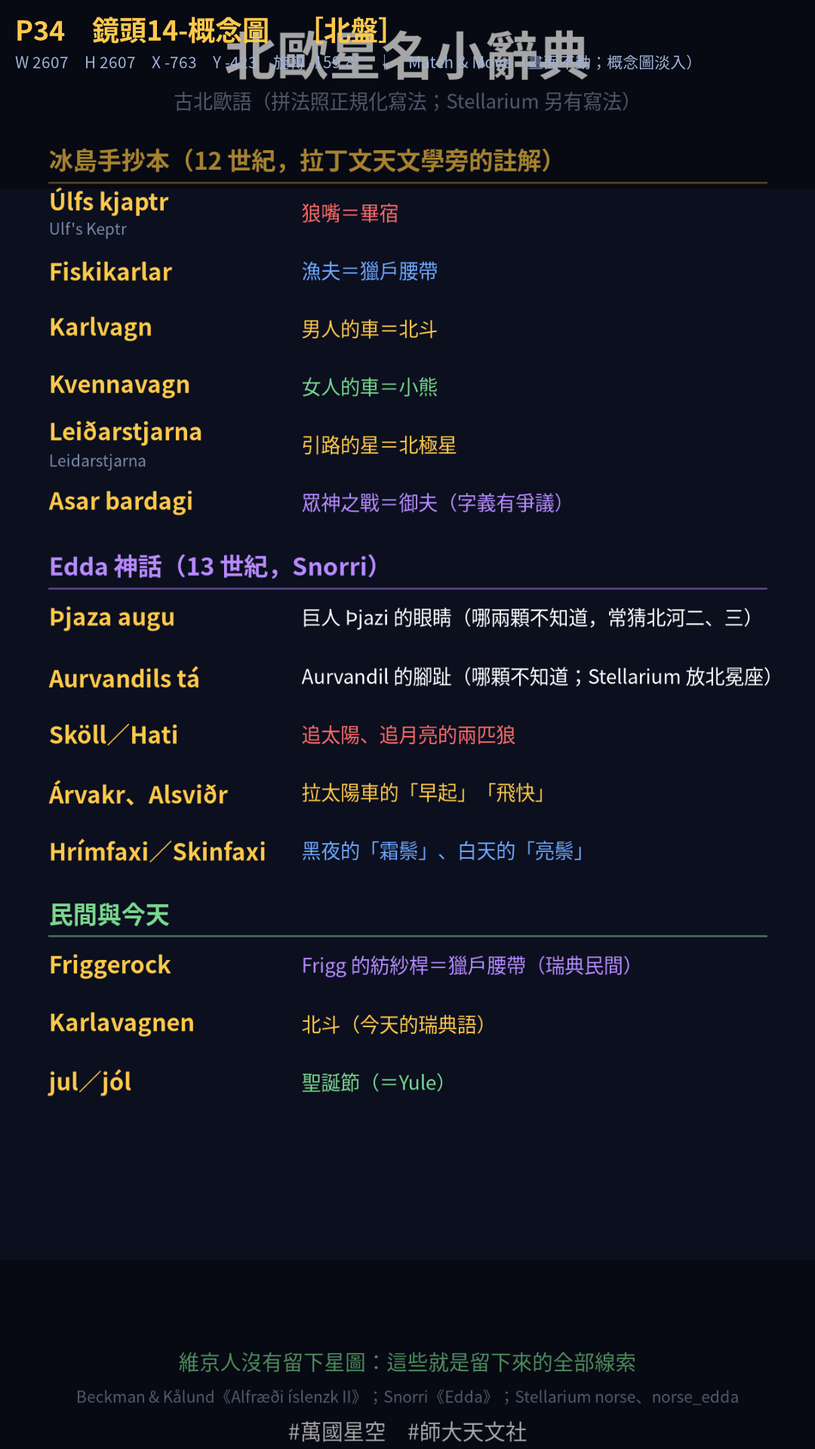
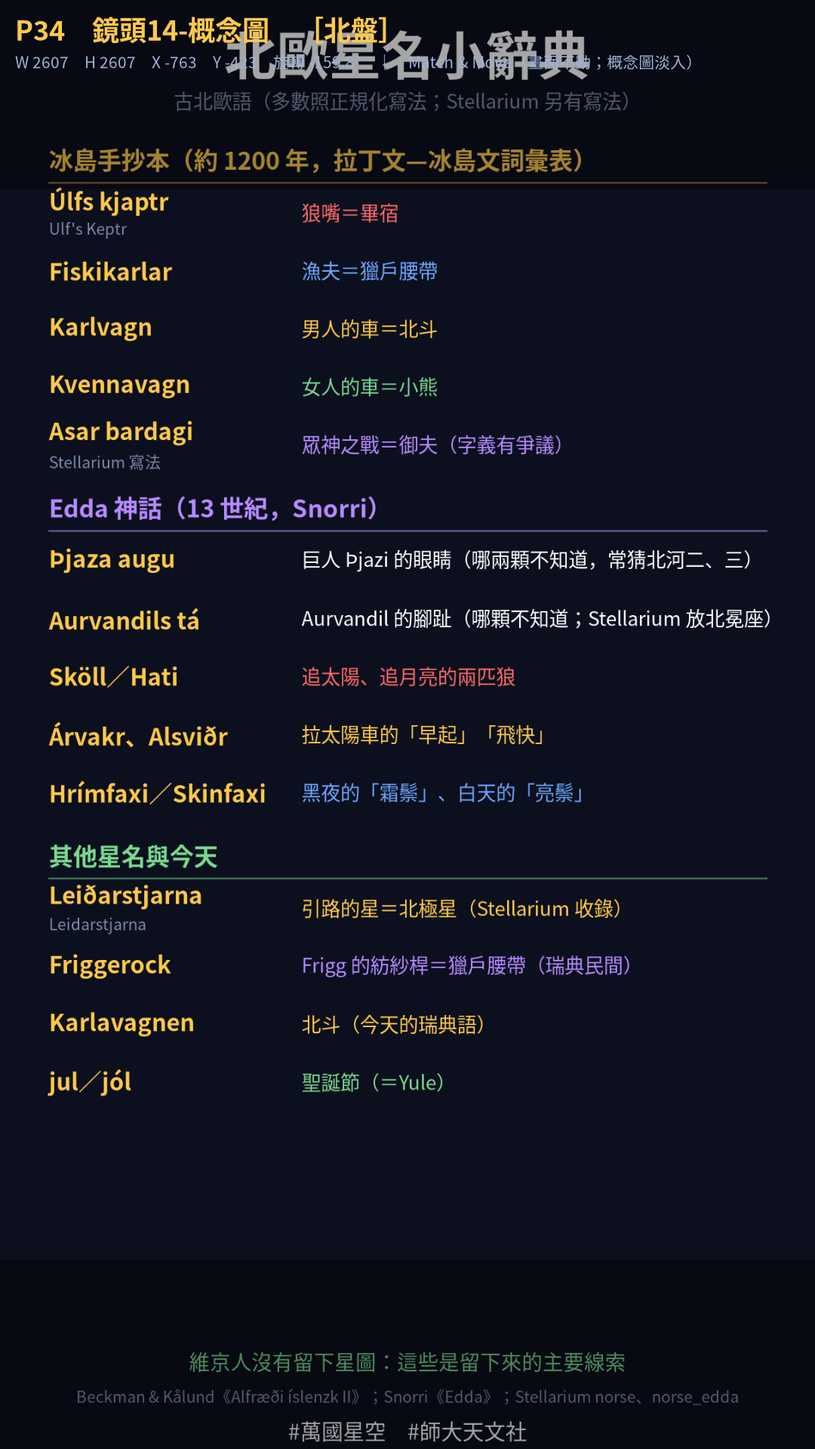
A-15 北歐：套用事實查核修正＋節目表
- 旁白 04：手抄本改為「十二世紀末…一份拉丁文詞彙表」（狼嘴在 GKS 1812 最古老部分的
  詞彙表；Vlfs kiopt 是十四世紀的星座篇）；07「嘴邊」→「附近」；10「冰河」→「結冰的河」；
  15「東北方」→「東北東」
- 圖卡：小辭典改標題與分組（Leiðarstjarna 另列）、「主要線索」；阿努塔「夾子」；
  這週末月亮離北河三「約 5°」；天上的追逐「狼會吞下太陽、抓走月亮」
- 首留言：馬肝在 Mære 的 Yule 祭宴、刪「馬是最重要的祭品」；「主要只有兩類」；Jólnir 另一讀法
- 節目表 A-15：鉤子、素材、時長 246s、狀態「逐字稿 v1（已查核）＋素材」
- Norse in Europe.csv 中譯：腳趾、男人的車／女人的車、引路的星、白晝之星、南方之星

Claude-Session: https://claude.ai/code/session_01StZzE6tWpXcy8oYxpE6GNa

diff --git a/02_製作流程SOP/make_a15_diagrams.py b/02_製作流程SOP/make_a15_diagrams.py
@@ -235,7 +235,7 @@ def c03_moon(ax):
     ctext(ax, -0.60, -0.22, "狼 Hati", 14, WHITE)
     CB.arrow(ax, (-0.10, -0.03), (-0.42, -0.03), c=RED, lw=2.4, alpha=.85)
     ctext(ax, -0.26, 0.035, "追", 14, RED)
-    ctext(ax, 0.62, -0.03, "到了諸神的黃昏，\n狼會把太陽吞下去", 12, RED, w="normal")
+    ctext(ax, 0.62, -0.03, "到了諸神的黃昏，\n狼會吞下太陽、抓走月亮", 12, RED, w="normal")
 
 
 def c03_horses(ax):
@@ -355,14 +355,14 @@ def c05_card(ax):
     ctext(ax, 0.5, 0.930, "金牛座的畢宿（Hyades），在世界各地被看成什麼？", 12, GREY, w="normal")
     hyades_drawing(ax, 0.5, 0.83, 0.060)
     rows = [("一張嘴、一副下巴", None, RED),
-            ("北歐", "Úlfs kjaptr　狼嘴（冰島手抄本，12 世紀）", RED),
+            ("北歐", "Úlfs kjaptr　狼嘴（冰島手抄本，約 1200 年）", RED),
             ("古巴比倫", "Is lê　公牛的下顎（MUL.APIN）", RED),
             ("亞馬遜 Tikuna", "Coyatchicüra　鱷魚的嘴", RED),
             ("巴西 圖皮", "Tapi'i rainhyka　貘的下巴", RED),
             ("蘇利南、蓋亞那 洛科諾", "Kama tâla　貘的下巴", RED),
             ("古埃及（重建）", "「下巴」", RED),
             ("一把夾子", None, AMBER),
-            ("阿努塔", "Te Angaanga　火鉗", AMBER),
+            ("阿努塔", "Te Angaanga　夾子", AMBER),
             ("萬那杜 Netwar", "Kou　夾熱石頭的鉗子", AMBER),
             ("其他", None, BLUE),
             ("中國", "畢　捕鳥兔的長柄網", BLUE),
@@ -388,20 +388,20 @@ def c05_card(ax):
     ctext(ax, 0.5, 0.020, "#萬國星空　#師大天文社", 11.5, WHITE, w="normal")
 
 
-GLOSS = [("冰島手抄本（12 世紀，拉丁文天文學旁的註解）", None, None, AMBER),
+GLOSS = [("冰島手抄本（約 1200 年，拉丁文—冰島文詞彙表）", None, None, AMBER),
          ("Úlfs kjaptr", "Ulf's Keptr", "狼嘴＝畢宿", RED),
          ("Fiskikarlar", "", "漁夫＝獵戶腰帶", BLUE),
          ("Karlvagn", "", "男人的車＝北斗", AMBER),
          ("Kvennavagn", "", "女人的車＝小熊", GREEN),
-         ("Leiðarstjarna", "Leidarstjarna", "引路的星＝北極星", AMBER),
-         ("Asar bardagi", "", "眾神之戰＝御夫（字義有爭議）", PURPLE),
+         ("Asar bardagi", "Stellarium 寫法", "眾神之戰＝御夫（字義有爭議）", PURPLE),
          ("Edda 神話（13 世紀，Snorri）", None, None, PURPLE),
          ("Þjaza augu", "", "巨人 Þjazi 的眼睛（哪兩顆不知道，常猜北河二、三）", WHITE),
          ("Aurvandils tá", "", "Aurvandil 的腳趾（哪顆不知道；Stellarium 放北冕座）", WHITE),
          ("Sköll／Hati", "", "追太陽、追月亮的兩匹狼", RED),
          ("Árvakr、Alsviðr", "", "拉太陽車的「早起」「飛快」", AMBER),
          ("Hrímfaxi／Skinfaxi", "", "黑夜的「霜鬃」、白天的「亮鬃」", BLUE),
-         ("民間與今天", None, None, GREEN),
+         ("其他星名與今天", None, None, GREEN),
+         ("Leiðarstjarna", "Leidarstjarna", "引路的星＝北極星（Stellarium 收錄）", AMBER),
          ("Friggerock", "", "Frigg 的紡紗桿＝獵戶腰帶（瑞典民間）", PURPLE),
          ("Karlavagnen", "", "北斗（今天的瑞典語）", AMBER),
          ("jul／jól", "", "聖誕節（＝Yule）", GREEN)]
@@ -409,7 +409,7 @@ GLOSS = [("冰島手抄本（12 世紀，拉丁文天文學旁的註解）", Non
 
 def c06_card(ax):
     ctext(ax, 0.5, 0.962, "北歐星名小辭典", 28, WHITE)
-    ctext(ax, 0.5, 0.930, "古北歐語（拼法照正規化寫法；Stellarium 另有寫法）", 10.5, GREY, w="normal")
+    ctext(ax, 0.5, 0.930, "古北歐語（多數照正規化寫法；Stellarium 另有寫法）", 10.5, GREY, w="normal")
     y = 0.893
     for nat, west, zh, col in GLOSS:
         if west is None:
@@ -423,7 +423,7 @@ def c06_card(ax):
             ctext(ax, 0.06, y - 0.012, west, 8.5, GREY, w="normal", ha="left")
         ctext(ax, 0.37, y, zh, 10.5, col, w="normal", ha="left")
         y -= 0.040
-    ctext(ax, 0.5, 0.060, "維京人沒有留下星圖：這些就是留下來的全部線索", 11, GREEN, w="normal")
+    ctext(ax, 0.5, 0.060, "維京人沒有留下星圖：這些是留下來的主要線索", 11, GREEN, w="normal")
     ctext(ax, 0.5, 0.036, "Beckman & Kålund《Alfræði íslenzk II》；Snorri《Edda》；Stellarium norse、norse_edda", 8.5,
           GREY, w="normal")
     ctext(ax, 0.5, 0.012, "#萬國星空　#師大天文社", 11.5, WHITE, w="normal")
@@ -504,7 +504,7 @@ def c07_card(ax):
                ("Sirius", "天狼星", WHITE, 0.03, 0.0)],
               lines=[([26727, 26311, 25930], BLUE), (["Aldebaran", 20894, 20205, 20455, 20889], RED),
                      (["Castor", "Pollux"], AMBER)], moon=True)
-    lines = [("月亮 18:33 從東北東升起，整晚就在北河三旁邊（相距約 4.5°）", WHITE),
+    lines = [("月亮 18:33 從東北東升起；傍晚到午夜，離北河三約 5°", WHITE),
              ("巨人 Þjazi 的眼睛＝北河二、三？Edda 沒說是哪兩顆，這是後人的猜測", GREY),
              ("晚上 10 點，畢宿五幾乎爬到頭頂（高度 81°）", WHITE),
              ("北斗的斗口晚上 8 點左右才在北北東低空露臉（後半夜才爬高）", WHITE),

diff --git a/04_腳本庫/A-15-北歐Yule之夜的狼與神駒-逐字稿-v1.md b/04_腳本庫/A-15-北歐Yule之夜的狼與神駒-逐字稿-v1.md
@@ -1,4 +1,4 @@
-# A-15｜北歐：Yule 之夜的狼與神駒（萬國星空 EP20）・v1
+# A-15｜北歐：Yule 之夜的狼與神駒（萬國星空 EP20）・v1（已過事實查核）
 
 | 項目 | 內容 |
 |---|---|
@@ -8,8 +8,8 @@
 | 素材 | `05_素材/A-15_北歐/_v4大畫布/`（v4.6：大畫布＋北／南盤圖層組；連線：狼嘴（紅）、日月之路＝黃道（淡藍灰）、漁夫（藍）、巨人之眼（琥珀）、兩輛車（琥珀／綠）；標籤 8 組；`A-15_Canva逐頁製作表.md`＋`A-15_對位參考/` 43 頁）；`05_素材/A-15_北歐/_概念圖/`（C-A15-01～07） |
 | 參數 | **lst=79, D_s=47, D_r=51, D_fill=−25**；k=1.469，R_fill=168.95，y_pole=109.23（盤寬 ÷ 畫布寬 ＝ **0.938606**） |
 | 為何這組參數 | 走廊（x=0）＝RA 79（五車二就在走廊上），畢宿五 x +10、畢宿 V +12…+13、腰帶 −4…−6、北河二三 −35…−37，全部在長圖帶中段。**D_s=47**：五車二 +46.0 也在帶內；北斗只在北盤鏡頭出現（盤檔是完整的等距圓），換組那一格 fov 30 只看得到 dec ≥ 60。**D_fill=−25**：特隆赫姆的北方地平線在 dec +26.6（盤心下方 93.2 單位），面北 fov 140 角落 151.8 < 168.4。北盤只轉到 22:00（−160°）：23:20 會跨過 ±180°，Canva 會往反方向轉 |
-| 來源 | Stellarium **norse**（Jonas Persson；Rímtöl 註解的 5 個星座＋3 個星名）與 **norse_edda**（Jakob Eyermann／Susanne M. Hoffmann）；Beckman & Kålund《Alfræði íslenzk II: Rímtöl》（1914–16）；Etheridge（GKS 1812 4to 的星名註解）；Snorri《Edda》（Gylfaginning 8、10–12、51；Skáldskaparmál）、《Vafþrúðnismál》14、《Heimskringla・Hákonar saga góða》；跨文化：Stellarium babylonian_mulapin、tikuna、tupi、lokono、egyptian、anutan、vanuatu_netwar、chinese、inuit、tongan、romanian、belarusian；天象全部 PyEphem 自算 |
-| 配音 | 逐字稿 **983 字**（中文字＋外文音節），平均 **4.00 字/秒**；最快一格 11 鏡 4.25、02 鏡 4.22（上限 4.5） |
+| 來源 | Stellarium **norse**（Jonas Persson；Rímtöl 的 5 個星座＋3 個星名）與 **norse_edda**（Jakob Eyermann／Susanne M. Hoffmann）；Beckman & Kålund《Alfræði íslenzk II: Rímtöl》（1914–16）；Etheridge（GKS 1812 4to 的拉丁文—冰島文詞彙表）；Snorri《Edda》（Gylfaginning 8、10–12、51；Skáldskaparmál）、《Vafþrúðnismál》14、《Heimskringla・Hákonar saga góða》；跨文化：Stellarium babylonian_mulapin、tikuna、tupi、lokono、egyptian、anutan、vanuatu_netwar、chinese、inuit、tongan、romanian、belarusian；天象全部 PyEphem 自算 |
+| 配音 | 逐字稿 **988 字**（中文字＋外文音節），平均 **4.02 字/秒**；最快一格 04 鏡 4.30、11 鏡 4.25（上限 4.5） |
 | 統一開頭 | 「同一片星空，維京人看見——一張狼嘴。」 |
 | 承接 | EP19（A-14）因紐特：極夜裡的星鐘（結尾「下週五聖誕節，我們去北歐：這群狗，在維京人眼裡是一張狼嘴」）→ **EP20 北歐：Yule 之夜的狼與神駒** → EP21（X-02）獵戶環球：全世界都認得的三顆星（2027/1/1 元旦） |
 
@@ -18,9 +18,9 @@
 > ⚠ **沒有可靠出處、片中不講的**：「聖誕老人的八隻馴鹿＝Sleipnir 的八條腿」（03 鏡反而拿來破解）；Rök 符文石上記了狼嘴（Holmberg 2022 的推測，只放首留言）；Dagstjarna＝大角、Suðrstjarna＝織女（Stellarium 的推定，冰島文的 dagstjarna 通常指晨星，只放首留言）。
 
 > **資料來源挖掘重點（第〇節檢查表）**
-> 1. **本文化的鄰居**：Stellarium norse 只有 6 個星座＋3 個星名，全部出自一本十二世紀冰島手抄本（GKS 1812 4to）拉丁文天文學旁的註解（Beckman & Kålund 1914–16 編成《Rímtöl》）：狼嘴（畢宿）、漁夫（腰帶）、男人的車（北斗）、女人的車（小熊）、眾神之戰（御夫）、Aurvandil 的腳趾（北冕？）；星名：引路星（北極星）、白晝之星、南方之星。排起來就是**冬天的星**——全都在聖誕夜看得到。新版 Stellarium 另有 **norse_edda**：把 Edda 的神話放上天（大多是推測），其中說得最清楚的是「Edda 明說變成星星的只有兩樣：Þjazi 的眼睛、Aurvandil 的腳趾」，以及「狼嘴就在月亮的路上，像一張咬向月亮的嘴」。
-> 2. **跨文化同星群**：畢宿 V 字掃全部文化，命中最多的意象是**一張嘴／一副下巴**：北歐狼嘴、巴比倫「公牛的下顎」（MUL.APIN）、Tikuna「鱷魚的嘴」、圖皮與洛科諾「貘的下巴」、古埃及「下巴」（重建）；其次是**夾子**：阿努塔「火鉗」、萬那杜 Netwar「夾熱石頭的鉗子」；其他：中國「畢」（捕鳥兔的長柄網）、因紐特「狗群」（A-14）、東加「鴿子的棲架」、羅馬尼亞「野豬群」、白俄羅斯「草蛇」、馬其頓「豬」。→ 圖卡 C-A15-05「同一個 V 字」。
-> 3. **恆星物理／天象**：畢宿五黃緯 −5.5°，太陽每年 6/1 前後經過、月亮每個月經過附近（2026/12/22 最近 10.3°）；北極星 1000 年離北天極 **6.2°**、1192 年 5.1°、今天 0.63°；特隆赫姆冬至白天 4.6 小時（10:00–14:33）；聖誕節晚上台北的月亮（97%）就在北河三旁 4.5°。
+> 1. **本文化的鄰居**：Stellarium norse 只有 6 個星座＋3 個星名。其中 5 個星座出自冰島手抄本 GKS 1812 4to 最古老部分（約 1190–1200 年）的一份拉丁文—冰島文詞彙表（Beckman & Kålund 1914–16 編成《Rímtöl》p.72）：狼嘴（畢宿）、漁夫（腰帶）、男人的車（北斗）、女人的車（小熊）、眾神之戰（御夫）；Aurvandil 的腳趾（放北冕）是 Persson 從 Edda 補的；3 個星名（引路星、白晝之星、南方之星）另引《Rímtöl》pp.48–53。排起來就是**冬天的星**——全都在聖誕夜看得到。新版 Stellarium 另有 **norse_edda**：把 Edda 的神話放上天（大多是推測），其中說得最清楚的是「Edda 明說變成星星的只有兩樣：Þjazi 的眼睛、Aurvandil 的腳趾」，以及「狼嘴就在月亮的路上，像一張咬向月亮的嘴」。
+> 2. **跨文化同星群**：畢宿 V 字掃全部文化，命中最多的意象是**一張嘴／一副下巴**：北歐狼嘴、巴比倫「公牛的下顎」（MUL.APIN）、Tikuna「鱷魚的嘴」、圖皮與洛科諾「貘的下巴」、古埃及「下巴」（重建）；其次是**夾子**：阿努塔「夾子」、萬那杜 Netwar「夾熱石頭的鉗子」；其他：中國「畢」（捕鳥兔的長柄網）、因紐特「狗群」（A-14）、東加「鴿子的棲架」、羅馬尼亞「野豬群」、白俄羅斯「草蛇」、馬其頓「豬」。→ 圖卡 C-A15-05「同一個 V 字」。
+> 3. **恆星物理／天象**：畢宿五黃緯 −5.5°，太陽每年 6/1 前後經過、月亮每個月經過附近（2026 年都從北邊約 10.3° 經過；12/22 最近 10.3°）；北極星 1000 年離北天極 **6.2°**、1192 年 5.1°、今天 0.63°；特隆赫姆冬至白天 4.6 小時（10:00–14:33）；聖誕節晚上台北的月亮（97%）傍晚到午夜離北河三約 5°（20:00 4.8°）。
 > 4. **文獻**：Snorri《Gylfaginning》10–12（日月與狼、神駒）、51（狼吞日）；《Skáldskaparmál》（Þjazi 的眼睛、Aurvandil 的腳趾）；《Vafþrúðnismál》14（Hrímfaxi 的白沫＝露水）；《Heimskringla・Hákonar saga góða》（Yule 法令）；Óðins nǫfn（Jólnir）；1823〈A Visit from St. Nicholas〉。
 > 5. **原始出處看到底**：①節目表的「追日的天狼」把狼嘴說成追日的狼——手抄本只有名字，沒有故事；②Stellarium 把 Dagstjarna 認成大角、Suðrstjarna 認成織女，冰島文獻的 dagstjarna 通常是晨星，片中不用；③Aurvandil 的腳趾是哪顆星沒有定論（北冕、參宿七、金星都有人說），Stellarium norse 放北冕座，片中說「沒人知道」；④「八隻馴鹿來自 Sleipnir」是網路常見說法，八隻馴鹿最早見於 1823 年的詩——拿來當破解。
 > 6. **去處**：主線＝狼嘴（接上集）→ Yule 變聖誕 → 奧丁與八隻馴鹿（破解）→ 留下來的星名很少 → 狼嘴 → 天上的追逐 → 日月之路 → 同一個 V 字 → 漁夫 → 巨人之眼 → 特隆赫姆的長夜：兩輛車、引路星 → 小辭典 → 這週末 → 下集（腰帶）；字卡＝Yule 變聖誕、八隻馴鹿、天上的追逐、引路星一千年、同一個 V 字、北歐星名小辭典、這週末抬頭看。
@@ -34,18 +34,18 @@
 | **01** Z | 0–11s（11） | 上週在北極圈，這群星是一群狗。今晚聖誕節，我們往東到北歐：同一片星空，維京人看見的——是一張狼嘴。 | 大畫布 fov 40→24；狼嘴（紅） | 開場字卡；從金牛—獵戶—御夫推近畢宿，狼嘴（紅）淡入 |
 | **02** Z | 11–34s（23） | 北歐人到今天還把聖誕節叫 jul，英文的古字是 Yule。這個節比基督教更早到北方：從仲冬那一夜開始，一連過三晚。十世紀，挪威國王 Hákon 立了法：Yule 改跟基督徒的聖誕節同一天，每個人都得備好一份啤酒，不然就罰錢——酒喝多久，節就過多久。 | 大畫布 fov 24；狼嘴（紅）；標籤 狼嘴；概念圖 C-A15-01_Yule變聖誕 | 畫面不動；定格疊概念圖 C-A15-01（仲冬三夜 → Hákon 立法 → 今天的 jul） |
 | **03** Z | 34–54s（20） | 這個節日跟奧丁有關：他有個名字就叫 Jólnir，「Yule 的那位」。常聽人說，聖誕老人的八隻馴鹿，來自奧丁那匹八條腿的神駒 Sleipnir——其實八隻馴鹿是 1823 年美國紐約一首詩寫出來的，古書裡找不到這層關係。 | 大畫布 fov 24；狼嘴（紅）；標籤 狼嘴；概念圖 C-A15-02_八隻馴鹿 | 畫面不動；定格疊概念圖 C-A15-02（Sleipnir 八條腿 → 1821 一頭馴鹿 → 1823 八隻） |
-| **04** Z | 54–77s（23） | 那維京人的天上，有哪些星座？說實話，留下來的很少。一本十二世紀的冰島手抄本，在拉丁文天文學旁邊，順手註了幾個北歐名字；神話集 Edda 說，天空是巨人的頭蓋骨，星星是火之國飛出來的火花——但明說被丟上天、變成某顆星的，只有兩樣。 | 大畫布 fov 24→40；狼嘴（紅） | 拉遠到整片冬季星空 |
+| **04** Z | 54–77s（23） | 那維京人的天上，有哪些星座？說實話，留下來的很少。一本十二世紀末的冰島手抄本，在一份拉丁文詞彙表裡，替幾個星座註上北歐名字；神話集 Edda 說，天空是巨人的頭蓋骨，星星是火之國飛出來的火花——但明說被丟上天、變成某顆星的，只有兩樣。 | 大畫布 fov 24→40；狼嘴（紅） | 拉遠到整片冬季星空 |
 | **05** Z | 77–87s（10） | 手抄本裡最有畫面的一個，就在這裡：畢宿的 V 字，叫 Úlfs kjaptr——狼嘴。兩排星，就像張開的上下顎。 | 大畫布 fov 40→24；狼嘴（紅）；標籤 狼嘴 | 推近畢宿，狼嘴標籤 |
 | **06** Z | 87–115s（28） | 是哪一匹狼？書上沒寫。但北歐神話裡的天空，一直在逃命：太陽被狼 Sköll 追，月亮被狼 Hati 追，所以它們一刻都不能停；到了諸神的黃昏，狼會把太陽吞下去。拉著太陽跑的，是兩匹神駒：Árvakr「早起」、Alsviðr「飛快」；黑夜也騎一匹馬，叫 Hrímfaxi「霜鬃」——每天早上，牠嚼子上滴下的白沫，就是山谷裡的露水。 | 大畫布 fov 24→30；狼嘴（紅）；標籤 狼嘴；概念圖 C-A15-03_天上的追逐 | 微拉；定格疊概念圖 C-A15-03（太陽與 Sköll → 月亮與 Hati → 神駒：Árvakr、Alsviðr、Hrímfaxi） |
-| **07** Z | 115–128s（13） | 再看這條線：太陽和月亮走的路。狼嘴就張在路邊：月亮每個月、太陽每年初夏，都要從它嘴邊經過。所以有人猜，它等著咬的，就是日月。 | 大畫布 fov 30→44；狼嘴（紅）＋日月之路＝黃道（淡藍灰）；標籤 狼嘴 | 拉遠；黃道（日月之路，淡藍灰）淡入，從昴宿和畢宿之間穿過 |
+| **07** Z | 115–128s（13） | 再看這條線：太陽和月亮走的路。狼嘴就張在路邊：月亮每個月、太陽每年初夏，都要從它附近經過。所以有人猜，它等著咬的，就是日月。 | 大畫布 fov 30→44；狼嘴（紅）＋日月之路＝黃道（淡藍灰）；標籤 狼嘴 | 拉遠；黃道（日月之路，淡藍灰）淡入，從昴宿和畢宿之間穿過 |
 | **08** Z | 128–147s（19） | 把這個 V 看成一張嘴的，不只北歐人：古巴比倫叫它「公牛的下顎」；亞馬遜的 Tikuna 人說是鱷魚的嘴；巴西的圖皮人、南美北岸的洛科諾人，都說是貘的下巴。上週的因紐特人，看到的則是一群狗。 | 大畫布 fov 44→42；狼嘴（紅）；標籤 狼嘴、跨文化-同一個V字；概念圖 C-A15-05_同一個V字 | 往右（西）移，跨文化名稱表；結束後疊 9:16 圖卡 C-A15-05 同一個 V 字（可存圖） |
 | **09** S | 147–157s（10） | 往下是獵戶的腰帶。冰島的手抄本叫它 Fiskikarlar：三個漁夫；瑞典民間卻說，那是女神 Frigg 的紡紗桿。 | 大畫布 fov 42→30；漁夫（藍）；標籤 漁夫 | 往左下滑到腰帶；漁夫（藍） |
-| **10** S | 157–179s（22） | Edda 明說的那兩樣呢？巨人 Þjazi 被眾神殺死，奧丁把他的兩隻眼睛丟上天，成了兩顆星；雷神 Thor 背著 Aurvandil 渡過冰河，凍僵的一根腳趾被他折下來，也丟上了天。是哪幾顆？沒人知道；有人猜，那雙眼睛就是雙子座並排的這兩顆。 | 大畫布 fov 30→30；巨人之眼（琥珀）；標籤 巨人之眼 | 往左上（東北）滑到雙子；北河二—北河三（琥珀）＝巨人之眼（推測） |
+| **10** S | 157–179s（22） | Edda 明說的那兩樣呢？巨人 Þjazi 被眾神殺死，奧丁把他的兩隻眼睛丟上天，成了兩顆星；雷神 Thor 背著 Aurvandil 渡過結冰的河，凍僵的一根腳趾被他折下來，也丟上了天。是哪幾顆？沒人知道；有人猜，那雙眼睛就是雙子座並排的這兩顆。 | 大畫布 fov 30→30；巨人之眼（琥珀）；標籤 巨人之眼 | 往左上（東北）滑到雙子；北河二—北河三（琥珀）＝巨人之眼（推測） |
 | **11** R | 179–191s（12） | 轉身向北，到挪威中部的特隆赫姆。冬至前後，這裡的太陽下午兩點半就下山，隔天早上十點才出來——一天有十九個多鐘頭是夜。 | 北盤 fov 140→140；旋轉 -70°→-100°；兩輛車（男人的車琥珀、女人的車綠）；標籤 男人的車-18 | 【自動換組】長圖→北盤；特隆赫姆 12/24 面北（山＝北方地平線），盤逆時針 16:00→18:00（-69.5°→-99.6°） |
 | **12** R | 191–203s（12） | 這麼長的夜，就看兩輛車慢慢繞：北斗叫 Karlvagn，男人的車——今天的瑞典人還叫它 Karlavagnen；小熊叫 Kvennavagn，女人的車。 | 北盤 fov 140→140；旋轉 -100°→-130°；兩輛車（男人的車琥珀、女人的車綠）；標籤 男人的車-20、女人的車 | 盤逆時針 18:00→20:00（-129.7°）；北斗爬向東北 |
 | **13** R | 203–215s（12） | 它們繞著的北極星，叫 Leiðarstjarna，「引路的星」。不過一千年前，它離北天極還有六度，自己也繞著小圈在轉。 | 北盤 fov 140→140；旋轉 -130°→-160°；兩輛車（男人的車琥珀、女人的車綠）；標籤 引路星；概念圖 C-A15-04_引路星一千年 | 盤逆時針 20:00→22:00（-159.8°）；之後定格疊概念圖 C-A15-04（今天 0.6° → 一千年前 6.2°） |
 | **14** R | 215–221s（6） | 這集的北歐星名，整理成一張小辭典，可以存起來。 | 北盤 fov 140；旋轉 -160°；兩輛車（男人的車琥珀、女人的車綠）；標籤 引路星；概念圖 C-A15-06_北歐星名小辭典 | 畫面不動；疊 9:16 圖卡 C-A15-06 北歐星名小辭典（可存圖） |
-| **15** S | 221–238s（17） | 這週末在台灣：天黑後往東看，八點左右，畢宿五和狼嘴已經爬到半天高，腰帶在它右下方；東北方雙子座的兩顆亮星旁邊，就是聖誕節的月亮——今晚去找找那雙巨人的眼睛。 | 大畫布 fov 40→36；狼嘴（紅）＋漁夫（藍）＋巨人之眼（琥珀）；標籤 狼嘴、漁夫、巨人之眼；概念圖 C-A15-07_這週末抬頭看 | 【自動換組】北盤→長圖；畢宿＋腰帶 → 往東北滑到雙子；之後疊 9:16 圖卡 這週末抬頭看（台北 12/25；可存圖） |
+| **15** S | 221–238s（17） | 這週末在台灣：天黑後往東看，八點左右，畢宿五和狼嘴已經爬到半天高，腰帶在它右下方；東北東，雙子座的兩顆亮星旁邊，就是聖誕節的月亮——今晚去找找那雙巨人的眼睛。 | 大畫布 fov 40→36；狼嘴（紅）＋漁夫（藍）＋巨人之眼（琥珀）；標籤 狼嘴、漁夫、巨人之眼；概念圖 C-A15-07_這週末抬頭看 | 【自動換組】北盤→長圖；畢宿＋腰帶 → 往東北滑到雙子；之後疊 9:16 圖卡 這週末抬頭看（台北 12/25；可存圖） |
 | **16** S | 238–246s（8） | 下週五元旦，我們從這三個漁夫出發，繞地球一圈：全世界都認得的獵戶腰帶。 | 大畫布 fov 36→24；漁夫（藍）；標籤 漁夫 | 推近腰帶（X-02 獵戶環球）；端卡＋追蹤 CTA |
 
 > **01–10、15–16 在大畫布（長圖）上**；**11–14 在北盤圖層組上**：盤心＝北極星，畫面中心在盤心下方 10.3 單位，特隆赫姆的北方地平線（63.43°）落在畫面 Y≈1600；山的剪影上緣 **1435.1**（gen_canva_pages 的稜線中位數），底下補黑色地面。
@@ -75,10 +75,10 @@
 | 12/24 09:28 | 滿月 |
 | 12/25（五）17:11／18:33 | 日落／天文昏影終 |
 | 12/25 | 畢宿五 15:41 升起、22:15 中天（高 81°）；參宿二 17:15 升起；北河二 18:04、北河三 18:25 升起；天樞 18:34 升起；天狼星 18:54 升起 |
-| 12/25 18:33 | 月亮（97%）從東北東升起（12/26 08:36 落下），整晚就在北河三旁（相距約 4.5°） |
+| 12/25 18:33 | 月亮（97%）從東北東升起（12/26 08:36 落下）；離北河三 18:33 4.6°、20:00 4.8°、22:00 5.2°、23:00 5.4°（清晨 04:00 已 7.4°） |
 | 12/25 20:00 | 畢宿五 57°（東，方位 98°）；參宿二 36°（東南東 112°）；參宿四 36°（東 99°）；五車二 49°（東北）；北河二 22°、北河三 19°（東北東）；月亮 16.5°（方位 72°）；天樞 5°（北北東） |
-| 2026/6/1 前後 | 太陽經過畢宿五的黃經（69.8°）；畢宿五黃緯 −5.5° |
-| 2026/12/22 | 月亮離畢宿五最近（地心 10.3°，從北邊經過） |
+| 2026/5/31 22:00 | 太陽經過畢宿五的黃經（69.8°）；畢宿五黃緯 −5.5° |
+| 2026/12/22 23:00 | 月亮離畢宿五最近（地心 10.3°，從北邊經過；2026 年每個月都差不多是這個距離） |
 
 ---
 
@@ -86,38 +86,38 @@
 
 | 原文 | Stellarium 拼法 | 西方星名 | 中譯／意思 | 出處 | 片中 |
 |---|---|---|---|---|---|
-| Úlfs kjaptr | Ulf's Keptr | 畢宿（畢宿五＋V 字） | 狼嘴（kjaptr＝嘴、顎） | 冰島手抄本註解；星座表另寫 Vlfs kiopt | 01、05–08、15 |
-| Fiskikarlar | Fiskikarlar | 獵戶腰帶 | 漁夫（們） | 冰島手抄本註解 | 09、16 |
+| Úlfs kjaptr | Ulf's Keptr | 畢宿（畢宿五＋V 字） | 狼嘴（kjaptr＝嘴、顎） | GKS 1812 4to 詞彙表（約 1200 年）寫 Ulfs keptr；十四世紀的星座篇另寫 Vlfs kiopt | 01、05–08、15 |
+| Fiskikarlar | Fiskikarlar | 獵戶腰帶 | 漁夫（們） | 詞彙表 | 09、16 |
 | Friggerock | — | 獵戶腰帶 | 女神 Frigg 的紡紗桿 | 瑞典民間（Grimm；Schön 2004 另記 Frejerock） | 09 |
-| Karlvagn | Karlvagn | 北斗 | 男人的車（今天瑞典語 Karlavagnen） | 冰島手抄本註解 | 12 |
-| Kvennavagn | Kvennavagn | 小熊 | 女人的車 | 冰島手抄本註解 | 12 |
-| Leiðarstjarna | Leidarstjarna | 北極星 | 引路的星 | 冰島手抄本註解 | 13 |
-| Asar bardagi | Asar Bardagi | 御夫 | 眾神之戰（字義有爭議） | 冰島手抄本註解 | 小辭典 |
+| Karlvagn | Karlvagn | 北斗 | 男人的車（今天瑞典語 Karlavagnen） | 詞彙表 | 12 |
+| Kvennavagn | Kvennavagn | 小熊 | 女人的車 | 詞彙表 | 12 |
+| Leiðarstjarna | Leidarstjarna | 北極星 | 引路的星 | Stellarium 引《Rímtöl》pp.48–53（不確定在 12 世紀的詞彙表裡） | 13 |
+| Asar bardagi | Asar Bardagi | 御夫 | 眾神之戰（字義有爭議；正規化寫法查不到，片中照 Stellarium） | 詞彙表 | 小辭典 |
 | Þjaza augu | Þjázis augu | （不知道；常猜北河二、三） | 巨人 Þjazi 的眼睛 | 《Skáldskaparmál》；norse_edda 推測 | 10、15 |
 | Aurvandils tá | Aurvandil's Toe | （不知道；Stellarium 放北冕） | Aurvandil 的腳趾 | 《Skáldskaparmál》 | 10 |
 | Sköll／Hati | — | — | 追太陽／追月亮的狼 | 《Gylfaginning》12、《Grímnismál》39 | 06 |
 | Árvakr／Alsviðr | — | — | 拉太陽車的「早起」「飛快」 | 《Gylfaginning》11 | 06 |
 | Hrímfaxi／Skinfaxi | — | — | 黑夜的「霜鬃」／白天的「亮鬃」 | 《Gylfaginning》10、《Vafþrúðnismál》12、14 | 06 |
-| Jólnir | — | — | 奧丁的名字：「Yule 的那位」 | 《Óðins nǫfn》 | 03 |
+| Jólnir | — | — | 奧丁的名字：「Yule 的那位」（另有「眾神之一」的讀法） | 《Þul Óðins》、維京時代的詩 | 03 |
 | jól／jul／Yule | — | — | 聖誕節 | — | 02 |
 
 ---
 
 ## 考據備忘
 
-- **手抄本**：GKS 1812 4to 是冰島的百科式手抄本，最古老的部分約 1192 年（Etheridge），拉丁文天文學旁邊有拉丁、阿拉伯、古北歐語三種星名註解；Beckman & Kålund 編入《Alfræði íslenzk II: Rímtöl》（1914–16，p.72）。片中說「一本十二世紀的冰島手抄本」。星座表裡狼嘴另寫作 Vlfs kiopt（Etheridge）。正規化拼法 Úlfs kjaptr（kjaptr＝嘴、顎；現代冰島語 kjaftur）；Stellarium 寫 Ulf's Keptr。
-- **Edda 明說變成星星的只有兩樣**：①《Skáldskaparmál》：眾神殺了巨人 Þjazi，奧丁為了跟他女兒 Skaði 和解，把他的眼睛丟上天成了兩顆星（《Hárbarðsljóð》19 則是 Thor 自己誇口說是他丟的）；②同書 Hrungnir 一段：Thor 把 Aurvandil 裝在籃子裡揹著，從北方的巨人國渡過冰河 Élivágar，一根腳趾露在外面凍僵了，Thor 把它折下來丟上天，成了一顆叫 Aurvandils tá 的星。是哪幾顆都沒寫（norse_edda 說得很清楚：北河二三只是「明顯的候選」）。
+- **手抄本**：GKS 1812 4to 是冰島的百科式手抄本。最古老的部分（GKS 1812 IV，約 1190–1200 年）裡有一份拉丁文—冰島文詞彙表（f.24r，原本跟 AM 249 l fol. 同一冊），天文段把星名列成拉丁、阿拉伯、古北歐語三種，狼嘴寫 Ulfs keptr；Beckman & Kålund 編入《Alfræði íslenzk II: Rímtöl》（1914–16，pp.72–75）。同一本手抄本**十四世紀**的部分有一篇描述 42 個星座的拉丁文（Excerptum de astrologia Arati），狼嘴在那裡寫成 Vlfs kiopt——前後隔了約兩百年（Etheridge）。片中說「一本十二世紀末的冰島手抄本，在一份拉丁文詞彙表裡，替幾個星座註上北歐名字」。正規化拼法 Úlfs kjaptr（kjaptr＝嘴、顎；現代冰島語 kjaftur）；Stellarium 寫 Ulf's Keptr。
+- **Edda 明說變成星星的只有兩樣**：①《Skáldskaparmál》：眾神殺了巨人 Þjazi，奧丁為了跟他女兒 Skaði 和解，把他的眼睛丟上天成了兩顆星（《Hárbarðsljóð》19 則是 Thor 自己誇口說是他丟的）；②同書 Hrungnir 一段：Thor 把 Aurvandil 裝在籃子裡揹著，從北方的巨人國涉過冰冷的河 Élivágar（片中說「結冰的河」），一根腳趾露在外面凍僵了，Thor 把它折下來丟上天，成了一顆叫 Aurvandils tá 的星。是哪幾顆都沒寫（norse_edda 說得很清楚：北河二三只是「明顯的候選」）。
 - **天空＝頭蓋骨、星星＝火花**：《Gylfaginning》8：眾神用巨人 Ymir 的頭蓋骨做天空，四角各站一個矮人（Norðri、Suðri、Austri、Vestri＝北南東西），再把從火之國 Múspellsheimr 飛出來的火花放上天，照亮天地。
 - **天上的追逐**：《Gylfaginning》12：太陽跑得那麼急，是因為狼 Sköll 在後面追，終究會追上；前面跑的狼 Hati Hróðvitnisson 想抓月亮。《Grímnismál》39 的措辭可以讀成反過來（Sköll 追月、Hati 追日），片中照 Snorri。51 章：諸神的黃昏，狼吞下太陽。
 - **神駒**：《Gylfaginning》11：太陽車的馬 Árvakr（早起）、Alsviðr（飛快），眾神在牠們肩下裝了風箱散熱；10 章：黑夜 Nótt 騎 Hrímfaxi（霜鬃），每天早上牠嚼子上的白沫灑在地上成了露水（《Vafþrúðnismál》14：「從那裡，露水落進山谷」）；白天 Dagr 騎 Skinfaxi（亮鬃），鬃毛照亮天空和大地。
-- **狼嘴在日月的路上**：畢宿五黃緯 −5.5°，月亮的軌道對黃道傾斜約 5°，所以月亮每個月都從畢宿附近經過（有些年份還會掩畢宿五）；太陽每年 6/1 前後經過畢宿五的黃經。「狼嘴咬的是日月」是 norse_edda（Eyermann／Hoffmann）與 Persson 的推測，片中說「有人猜」。
-- **Yule 法令**：《Heimskringla・Hákonar saga góða》（Íslenzk fornrit 本第 13 章；有些譯本編第 15 章）：Hákon（約 934–961 在位）立法，Yule 從基督徒過節的時候開始，每個人要備一份（約定分量的）啤酒，不然罰錢，酒喝多久、節就守多久；在那之前 Yule 從 hǫkunótt（仲冬夜）開始，過三個晚上。片中「每個人都得備好一份啤酒，不然就罰錢——酒喝多久，節就過多久」。同一部薩迦也記了特隆赫姆農民在 Yule 祭宴上逼這位信基督的國王吃馬肝（首留言）。
-- **Jólnir**：奧丁的名字之一，見於 Prose Edda 附的《Óðins nǫfn》名單（另有 Jólfuðr「Yule 之父」）；十二世紀的《Ágrip》甚至說 jól 這個字就是從 Jólnir 來的（中世紀的說法，今天的語源學沒有定論）。片中只說「這個節日跟奧丁有關」。
+- **狼嘴在日月的路上**：畢宿五黃緯 −5.5°，月亮的軌道對黃道傾斜約 5°，所以月亮每個月都從畢宿附近經過（2026 年都從北邊約 10.3° 經過；貼近的程度跟著 18.6 年週期變，有些年份會直接掩住畢宿五）；太陽每年 5/31–6/1 經過畢宿五的黃經。片中「附近」。「狼嘴咬的是日月」是 norse_edda（Eyermann／Hoffmann）與 Persson 的推測，片中說「有人猜」。
+- **Yule 法令**：《Heimskringla・Hákonar saga góða》（Íslenzk fornrit 本第 13 章；有些譯本編第 15 章）：Hákon（約 934–961 在位）立法，Yule 從基督徒過節的時候開始，每個人要備一份（約定分量的）啤酒，不然罰錢，酒喝多久、節就守多久；在那之前 Yule 從 hǫkunótt（仲冬夜）開始，過三個晚上。片中「每個人都得備好一份啤酒，不然就罰錢——酒喝多久，節就過多久」。同一部薩迦也記了：那年冬天，特倫德拉格的農民在 Mære 的 Yule 祭宴上逼這位信基督的國王吃了幾口馬肝、喝下敬神的酒（ÍF 第 18 章；前一年秋天在 Hlaðir 那場，他只對著鍋柄上的馬肉蒸氣張嘴，第 17 章）。
+- **Jólnir**：奧丁的名字之一，見於 Snorra Edda 附的《Þul Óðins》名單，也見於維京時代的詩（Þórsdrápa；Háleygjatal 的複數 jólna＝眾神）；Jólfuðr「Yule 之父」見於《Óðins nǫfn》。「Yule 的那位」是通俗譯法（Simek 等），Skaldic Project 的編者認為多半從 jóln「眾神」派生，意思可能是「眾神之一」。十二世紀末的《Ágrip》說 jól 這個字從 Jólnir 來（中世紀的說法）。片中只說「這個節日跟奧丁有關」。
 - **八隻馴鹿**：1821 年紐約出版的兒童詩集《The Children's Friend》裡〈Old Santeclaus with Much Delight〉：雪橇由一頭（沒有名字的）馴鹿拉；1823/12/23《Troy Sentinel》（紐約州 Troy）刊出〈A Visit from St. Nicholas〉（後來歸給 Clement Clarke Moore），第一次出現八隻有名字的馴鹿：Dasher, Dancer, Prancer, Vixen, Comet, Cupid, Dunder, Blixem（最後兩個是荷蘭語「雷」「閃電」，後來改成 Donder／Donner、Blitzen）。Sleipnir＝八隻馴鹿是近代的聯想，沒有中世紀或民俗紀錄可以接上。
-- **Friggerock**：瑞典民間把腰帶叫 Frigg 的紡紗桿（Grimm《Teutonic Mythology》；Schön 2004《Asa-Tors hammare》p.228 另記 Frejerock）；挪威、冰島叫漁夫。片中「瑞典民間卻說」。
+- **Friggerock**：瑞典民間把腰帶叫 Frigg 的紡紗桿（Grimm《Teutonic Mythology》第 22 章；Schön 2004《Asa-Tors hammare》p.228 另記 Frejerock）；Fiskikarlar「漁夫」只有冰島手抄本這個出處。冰島後來還有民間名 fjósakonur「牛棚女工」（也是腰帶），片中不提。片中「瑞典民間卻說」。
 - **Karlavagnen**：今天瑞典語的北斗；Karl 的來歷有「查理曼」與「男人／農夫」兩派，Rímtöl 的 Karlvagn 跟 Kvennavagn（女人的車）成對，片中只說「男人的車」。
 - **北極星一千年前**：PyEphem（IAU 歲差）：北極星離北天極 1000 年 6.2°、1192 年 5.1°、2026 年 0.63°。片中「一千年前，它離北天極還有六度」。
-- **跨文化 V 字**：巴比倫 MUL.APIN「is lê」＝公牛的下顎（Stellarium babylonian_mulapin 036）；Tikuna Coyatchicüra＝鱷魚的嘴（tikuna 003，連畢宿五、γ、ε 三顆）；圖皮 Tapi'i rainhyka＝貘的下巴（tupi 007）；洛科諾 Kama tâla＝貘的下巴（lokono 005，Rybka 2018；跟腰帶 Mabukuli「沒有大腿的男人」是同一個故事）；古埃及「Jaw」（egyptian 022，據 Belmonte 的重建）。
+- **跨文化 V 字**：巴比倫 MUL.APIN「is lê」＝公牛的下顎（Stellarium babylonian_mulapin 036）；Tikuna Coyatchicüra＝鱷魚的嘴（tikuna 003，連畢宿五、γ、ε 三顆）；圖皮 Tapi'i rainhyka＝貘的下巴（tupi 007）；洛科諾 Kama tâla＝貘的下巴（lokono 005，Rybka 2018；跟腰帶 Mabukuli「沒有大腿的男人」是同一個故事）；古埃及「Jaw」（egyptian 022，據 Belmonte 的重建）；阿努塔 Te Angaanga「The Tongs」（夾子；二手資料說是竹夾子，查不到「火」）。
 - **連線**：狼嘴、漁夫、男人的車、女人的車、眾神之戰、Aurvandil 的腳趾照 Stellarium norse 原樣；巨人之眼照 norse_edda（北河三—北河二）；黃道是自算的大圓（假星串成，不畫星點）。眾神之戰、Aurvandil 的腳趾只在 L4 總層。
 
 ---
@@ -131,7 +131,7 @@
 ## Caption 建議
 
 > 聖誕快樂🎄 北歐人到今天還把聖誕節叫 jul——英文的古字 Yule，比基督教更早到北方。
-> 維京人沒有留下星圖，只在一本十二世紀的冰島手抄本裡，留下幾個名字：畢宿的 V 字叫 Úlfs kjaptr，狼嘴。
+> 維京人沒有留下星圖；北歐的星名，只在一本十二世紀末的冰島手抄本裡留下幾個：畢宿的 V 字叫 Úlfs kjaptr，狼嘴。
 > 北歐神話裡，太陽被狼 Sköll 追、月亮被狼 Hati 追；這張狼嘴，剛好就張在日月走的路邊。
 > 今晚台灣：天黑後往東看，狼嘴、漁夫（獵戶腰帶），還有雙子座旁邊的聖誕月亮。
 > 📌 圖卡「同一個 V 字」「北歐星名小辭典」「這週末抬頭看」可以存起來
@@ -140,24 +140,24 @@
 
 ## 首留言（考據長文）
 
-📚 **出處**：北歐星名只留下兩類——①冰島百科手抄本 GKS 1812 4to（最古老部分約 1192 年）在拉丁文天文學旁的註解，Beckman & Kålund 編入《Alfræði íslenzk II: Rímtöl》（1914–16）；②Snorri Sturluson 的《Edda》（約 1220 年）。Stellarium 的 norse（Jonas Persson）收第一類，norse_edda（Jakob Eyermann、Susanne M. Hoffmann）把 Edda 的神話放上天，但作者自己說大多是推測。
+📚 **出處**：中世紀留下的北歐星名，主要只有兩類——①冰島百科手抄本 GKS 1812 4to 最古老的部分（約 1190–1200 年）裡有一份拉丁文—冰島文詞彙表，把星名列成拉丁、阿拉伯、古北歐語三種，Beckman & Kålund 收進《Alfræði íslenzk II: Rímtöl》（1914–16，pp.72–75）；同一本手抄本十四世紀的星座篇裡，狼嘴又寫成 Vlfs kiopt；②Snorri Sturluson 的《Edda》（約 1220 年）。Stellarium 的 norse（Jonas Persson）收第一類，norse_edda（Jakob Eyermann、Susanne M. Hoffmann）把 Edda 的神話放上天，但作者自己說大多是推測。
 
-📚 **Yule 變聖誕**：Snorri《Heimskringla・Hákonar saga góða》：國王 Hákon（約 934–961 在位）立法，Yule 從基督徒過節的時候開始，每個人要備一份啤酒，不然罰錢，酒喝多久、節就守多久；以前 Yule 從「仲冬夜」（hǫkunótt）開始，過三個晚上。同一部薩迦還記了：特隆赫姆一帶的農民在 Yule 祭宴上，逼這位信基督的國王吃馬肝、喝敬神的酒——馬是當時最重要的祭品。
+📚 **Yule 變聖誕**：Snorri《Heimskringla・Hákonar saga góða》：國王 Hákon（約 934–961 在位）立法，Yule 從基督徒過節的時候開始，每個人要備一份啤酒，不然罰錢，酒喝多久、節就守多久；以前 Yule 從「仲冬夜」（hǫkunótt）開始，過三個晚上。同一部薩迦還記了：那年冬天，特倫德拉格（特隆赫姆所在的地區）的農民在 Mære 的 Yule 祭宴上，逼這位信基督的國王吃了幾口馬肝、喝下敬神的酒——馬肉是異教祭宴的祭品，基督徒不吃。
 
-📚 **奧丁＝Yule 的那位？**奧丁的別名 Jólnir、Jólfuðr（Yule 之父）見於 Prose Edda 附的名單；十二世紀的《Ágrip》說 jól 這個字就來自 Jólnir（中世紀的說法）。聖誕老人的八隻馴鹿最早見於 1823 年〈A Visit from St. Nicholas〉（Dasher, Dancer, Prancer, Vixen, Comet, Cupid, Dunder, Blixem），1821 年的版本只有一頭——說它們來自 Sleipnir 的八條腿，是近代的聯想。
+📚 **奧丁＝Yule 的那位？**奧丁的別名 Jólnir、Jólfuðr（Yule 之父）見於 Prose Edda 附的名單（Jólnir 的字義另有「眾神之一」的讀法）；十二世紀末的《Ágrip》說 jól 這個字就來自 Jólnir（中世紀的說法）。聖誕老人的八隻馴鹿最早見於 1823 年〈A Visit from St. Nicholas〉（Dasher, Dancer, Prancer, Vixen, Comet, Cupid, Dunder, Blixem），1821 年的版本只有一頭——說它們來自 Sleipnir 的八條腿，是近代的聯想。
 
 📚 **天上的追逐**：《Gylfaginning》12：太陽跑得急，是因為狼 Sköll 在後面追；Hati 在前面追月亮。11 章：太陽車由 Árvakr（早起）、Alsviðr（飛快）拉，眾神在牠們肩下裝了風箱散熱。10 章：黑夜騎 Hrímfaxi（霜鬃），嚼子上的白沫每天早上落成露水；白天騎 Skinfaxi（亮鬃）。8 章：天空是巨人 Ymir 的頭蓋骨，四角站著四個矮人——Norðri、Suðri、Austri、Vestri，就是北、南、東、西。
 
-📚 **狼嘴與日月**：畢宿五黃緯 −5.5°，月亮每個月都從畢宿附近經過，太陽每年 6/1 前後經過。「狼嘴咬向日月」是今天研究者的推測；還有人主張九世紀的 Rök 符文石（瑞典，約 800 年）上就提到這張狼嘴（Holmberg 2022），目前仍有爭議。
+📚 **狼嘴與日月**：畢宿五黃緯 −5.5°，月亮每個月都從畢宿附近經過，太陽每年 6/1 前後經過。「狼嘴咬向日月」是今天研究者的推測；還有人主張九世紀初的 Rök 符文石（瑞典）上就提到這張狼嘴（Holmberg 2022），目前仍有爭議。
 
-📚 **Edda 明說的兩顆星**：奧丁把巨人 Þjazi 的眼睛丟上天（《Skáldskaparmál》；《Hárbarðsljóð》說是 Thor）；Thor 把 Aurvandil 凍僵的腳趾折下來丟上天（《Skáldskaparmál》）。是哪幾顆沒有記載：眼睛常被猜成北河二、三；腳趾有人說北冕、參宿七，也有人連到古英文的 Earendel「晨星」。
+📚 **Edda 明說的兩樣東西**：奧丁把巨人 Þjazi 的眼睛丟上天（《Skáldskaparmál》；《Hárbarðsljóð》說是 Thor）；Thor 把 Aurvandil 凍僵的腳趾折下來丟上天（《Skáldskaparmál》）。是哪幾顆沒有記載：眼睛常被猜成北河二、三；腳趾有人說北冕、參宿七，也有人連到古英文的 Earendel「晨星」。
 
 📚 **其他星名**：Stellarium 還收了 Dagstjarna「白晝之星」（標成大角）、Suðrstjarna「南方之星」（標成織女）——冰島文獻裡的 dagstjarna 通常指晨星，這兩個推定還有疑問。
 
-📚 **同一個 V 字**：巴比倫 MUL.APIN 叫它「公牛的下顎」；亞馬遜 Tikuna 是鱷魚的嘴；巴西圖皮、蘇利南與蓋亞那的洛科諾都說是貘的下巴；阿努塔是火鉗、萬那杜 Netwar 是夾熱石頭的鉗子；中國的「畢」是捕鳥兔的長柄網；上週的因紐特人看到一群狗。
+📚 **同一個 V 字**：巴比倫 MUL.APIN 叫它「公牛的下顎」；亞馬遜 Tikuna 是鱷魚的嘴；巴西圖皮、蘇利南與蓋亞那的洛科諾都說是貘的下巴；阿努塔是夾子、萬那杜 Netwar 是夾熱石頭的鉗子；中國的「畢」是捕鳥兔的長柄網；上週的因紐特人看到一群狗。
 
 ## 配音提示
 
-- 古北歐語唸法（近似）：jul（尤爾）、Yule（尤爾）、Hákon（豪-孔）、Jólnir（尤-爾-尼爾）、Sleipnir（斯雷-普尼爾）、Edda（艾-達）、Úlfs kjaptr（烏爾夫斯 恰-普特爾）、Sköll（斯克爾）、Hati（哈-提）、Árvakr（奧-爾-瓦克）、Alsviðr（阿爾斯-維-澤）、Hrímfaxi（赫利姆-法克-西）、Fiskikarlar（費斯-基-卡爾-拉）、Frigg（弗利格）、Þjazi（提-亞-齊，Þ＝英文 th）、Thor（索爾）、Aurvandil（奧爾-萬-迪爾）、Karlvagn（卡爾-瓦格恩）、Karlavagnen（卡-拉-瓦格-能）、Kvennavagn（克維-納-瓦格恩）、Leiðarstjarna（萊-澤-斯提亞-納）；Tikuna（提-庫-納）、特隆赫姆（Trondheim）。
-- 02 鏡（4.22）、11 鏡（4.25）是全片最快的兩格：02「十世紀」之前小停；11「一天有十九個多鐘頭是夜」放慢。
+- 古北歐語唸法（近似）：jul（尤爾）、Yule（尤爾）、Hákon（豪-孔）、Jólnir（尤-爾-尼爾）、Sleipnir（斯雷-普尼爾）、Edda（艾-達）、Úlfs kjaptr（烏爾夫斯 恰夫-特爾；pt 唸 ft）、Sköll（斯克爾）、Hati（哈-提）、Árvakr（奧-爾-瓦克）、Alsviðr（阿爾斯-維-澤）、Hrímfaxi（赫利姆-法克-西）、Fiskikarlar（費斯-基-卡爾-拉）、Frigg（弗利格）、Þjazi（提-亞-齊，Þ＝英文 th）、Thor（索爾）、Aurvandil（奧爾-萬-迪爾）、Karlvagn（卡爾-瓦格恩）、Karlavagnen（卡-拉-瓦格-能）、Kvennavagn（克維-納-瓦格恩）、Leiðarstjarna（萊-澤-斯提亞-納）；Tikuna（提-庫-納）、特隆赫姆（Trondheim）。
+- 04 鏡（4.30）、11 鏡（4.25）、02 鏡（4.22）是全片最快的三格：04「說實話」之後小停；02「十世紀」之前小停；11「一天有十九個多鐘頭是夜」放慢。
 - 03 鏡「其實」之後停半拍，帶一點「抓到了」的語氣；10 鏡「是哪幾顆？」停一下再接「沒人知道」。

diff --git a/05_素材/A-15_北歐/_v4大畫布/A-15_Canva逐頁製作表.md b/05_素材/A-15_北歐/_v4大畫布/A-15_Canva逐頁製作表.md
@@ -18,19 +18,19 @@
 | 7 | 鏡頭03-概念圖1 | 長圖 | 16200.0 | 25020.0 | -8109.0 | -10789.5 | 0.0 | Match & Move（畫面不動；概念圖第 1 層淡入） | L1-銀河、L2-星點、L3-經緯線、L5-連線-狼嘴、L10-主角星白點 |  |
 | 8 | 鏡頭03-概念圖2 | 長圖 | 16200.0 | 25020.0 | -8109.0 | -10789.5 | 0.0 | Match & Move（畫面不動；概念圖第 2 層淡入） | L1-銀河、L2-星點、L3-經緯線、L5-連線-狼嘴、L10-主角星白點 |  |
 | 9 | 鏡頭03-概念圖3 | 長圖 | 16200.0 | 25020.0 | -8109.0 | -10789.5 | 0.0 | Match & Move（畫面不動；概念圖第 3 層淡入） | L1-銀河、L2-星點、L3-經緯線、L5-連線-狼嘴、L10-主角星白點 |  |
-| 10 | 鏡頭03-概念圖收＝鏡頭04開始 | 長圖 | 16200.0 | 25020.0 | -8109.0 | -10789.5 | 0.0 | Match & Move（畫面不動；概念圖淡出） | L1-銀河、L2-星點、L3-經緯線、L5-連線-狼嘴、L10-主角星白點 | 那維京人的天上，有哪些星座？說實話，留下來的很少。一本十二世紀的冰島手抄本，在拉丁文天文學旁邊，順手註了幾個北歐名字；神話集 Edda 說，天空是巨人的頭蓋骨，星星是火之國飛出來的火花——但明說被丟上天、變成某顆星的，只有兩樣。 |
+| 10 | 鏡頭03-概念圖收＝鏡頭04開始 | 長圖 | 16200.0 | 25020.0 | -8109.0 | -10789.5 | 0.0 | Match & Move（畫面不動；概念圖淡出） | L1-銀河、L2-星點、L3-經緯線、L5-連線-狼嘴、L10-主角星白點 | 那維京人的天上，有哪些星座？說實話，留下來的很少。一本十二世紀末的冰島手抄本，在一份拉丁文詞彙表裡，替幾個星座註上北歐名字；神話集 Edda 說，天空是巨人的頭蓋骨，星星是火之國飛出來的火花——但明說被丟上天、變成某顆星的，只有兩樣。 |
 | 11 | 鏡頭04結束＝鏡頭05開始 | 長圖 | 9720.0 | 15012.0 | -4428.0 | -6330.0 | 0.0 | Match & Move（23.0 秒） | L1-銀河、L2-星點、L3-經緯線、L5-連線-狼嘴、L10-主角星白點 | 手抄本裡最有畫面的一個，就在這裡：畢宿的 V 字，叫 Úlfs kjaptr——狼嘴。兩排星，就像張開的上下顎。 |
 | 12 | 鏡頭05結束＝鏡頭06開始 | 長圖 | 16200.0 | 25020.0 | -8109.0 | -10789.5 | 0.0 | Match & Move（10.0 秒） | L1-銀河、L2-星點、L3-經緯線、L5-連線-狼嘴、L10-主角星白點、L11-標籤-狼嘴 | 是哪一匹狼？書上沒寫。但北歐神話裡的天空，一直在逃命：太陽被狼 Sköll 追，月亮被狼 Hati 追，所以它們一刻都不能停；到了諸神的黃昏，狼會把太陽吞下去。拉著太陽跑的，是兩匹神駒：Árvakr「早起」、Alsviðr「飛快」；黑夜也騎一匹馬，叫 Hrímfaxi「霜鬃」——每天早上，牠嚼子上滴下的白沫，就是山谷裡的露水。 |
 | 13 | 鏡頭06結束 | 長圖 | 12960.0 | 20016.0 | -6379.2 | -8475.6 | 0.0 | Match & Move（28.0 秒） | L1-銀河、L2-星點、L3-經緯線、L5-連線-狼嘴、L10-主角星白點、L11-標籤-狼嘴 |  |
 | 14 | 鏡頭06-概念圖1 | 長圖 | 12960.0 | 20016.0 | -6379.2 | -8475.6 | 0.0 | Match & Move（畫面不動；概念圖第 1 層淡入） | L1-銀河、L2-星點、L3-經緯線、L5-連線-狼嘴、L10-主角星白點 |  |
 | 15 | 鏡頭06-概念圖2 | 長圖 | 12960.0 | 20016.0 | -6379.2 | -8475.6 | 0.0 | Match & Move（畫面不動；概念圖第 2 層淡入） | L1-銀河、L2-星點、L3-經緯線、L5-連線-狼嘴、L10-主角星白點 |  |
 | 16 | 鏡頭06-概念圖3 | 長圖 | 12960.0 | 20016.0 | -6379.2 | -8475.6 | 0.0 | Match & Move（畫面不動；概念圖第 3 層淡入） | L1-銀河、L2-星點、L3-經緯線、L5-連線-狼嘴、L10-主角星白點 |  |
-| 17 | 鏡頭06-概念圖收＝鏡頭07開始 | 長圖 | 12960.0 | 20016.0 | -6379.2 | -8475.6 | 0.0 | Match & Move（畫面不動；概念圖淡出） | L1-銀河、L2-星點、L3-經緯線、L5-連線-狼嘴、L10-主角星白點、L11-標籤-狼嘴 | 再看這條線：太陽和月亮走的路。狼嘴就張在路邊：月亮每個月、太陽每年初夏，都要從它嘴邊經過。所以有人猜，它等著咬的，就是日月。 |
+| 17 | 鏡頭06-概念圖收＝鏡頭07開始 | 長圖 | 12960.0 | 20016.0 | -6379.2 | -8475.6 | 0.0 | Match & Move（畫面不動；概念圖淡出） | L1-銀河、L2-星點、L3-經緯線、L5-連線-狼嘴、L10-主角星白點、L11-標籤-狼嘴 | 再看這條線：太陽和月亮走的路。狼嘴就張在路邊：月亮每個月、太陽每年初夏，都要從它附近經過。所以有人猜，它等著咬的，就是日月。 |
 | 18 | 鏡頭07結束＝鏡頭08開始 | 長圖 | 8836.4 | 13647.3 | -4128.5 | -5667.3 | 0.0 | Match & Move（13.0 秒） | L1-銀河、L2-星點、L3-經緯線、L5-連線-狼嘴、L6-連線-日月之路、L10-主角星白點、L11-標籤-狼嘴 | 把這個 V 看成一張嘴的，不只北歐人：古巴比倫叫它「公牛的下顎」；亞馬遜的 Tikuna 人說是鱷魚的嘴；巴西的圖皮人、南美北岸的洛科諾人，都說是貘的下巴。上週的因紐特人，看到的則是一群狗。 |
 | 19 | 鏡頭08結束 | 長圖 | 9257.1 | 14297.1 | -4659.4 | -6111.4 | 0.0 | Match & Move（19.0 秒） | L1-銀河、L2-星點、L3-經緯線、L5-連線-狼嘴、L10-主角星白點、L11-標籤-狼嘴、L12-標籤-跨文化-同一個V字 |  |
 | 20 | 鏡頭08-概念圖 | 長圖 | 9257.1 | 14297.1 | -4659.4 | -6111.4 | 0.0 | Match & Move（畫面不動；概念圖淡入） | L1-銀河、L2-星點、L3-經緯線、L5-連線-狼嘴、L10-主角星白點 |  |
 | 21 | 鏡頭08-概念圖收＝鏡頭09開始 | 長圖 | 9257.1 | 14297.1 | -4659.4 | -6111.4 | 0.0 | Match & Move（畫面不動；概念圖淡出） | L1-銀河、L2-星點、L3-經緯線、L5-連線-狼嘴、L10-主角星白點、L13-標籤-漁夫 | 往下是獵戶的腰帶。冰島的手抄本叫它 Fiskikarlar：三個漁夫；瑞典民間卻說，那是女神 Frigg 的紡紗桿。 |
-| 22 | 鏡頭09結束＝鏡頭10開始 | 長圖 | 12960.0 | 20016.0 | -5756.4 | -9051.6 | 0.0 | Match & Move（10.0 秒） | L1-銀河、L2-星點、L3-經緯線、L7-連線-漁夫、L10-主角星白點、L13-標籤-漁夫 | Edda 明說的那兩樣呢？巨人 Þjazi 被眾神殺死，奧丁把他的兩隻眼睛丟上天，成了兩顆星；雷神 Thor 背著 Aurvandil 渡過冰河，凍僵的一根腳趾被他折下來，也丟上了天。是哪幾顆？沒人知道；有人猜，那雙眼睛就是雙子座並排的這兩顆。 |
+| 22 | 鏡頭09結束＝鏡頭10開始 | 長圖 | 12960.0 | 20016.0 | -5756.4 | -9051.6 | 0.0 | Match & Move（10.0 秒） | L1-銀河、L2-星點、L3-經緯線、L7-連線-漁夫、L10-主角星白點、L13-標籤-漁夫 | Edda 明說的那兩樣呢？巨人 Þjazi 被眾神殺死，奧丁把他的兩隻眼睛丟上天，成了兩顆星；雷神 Thor 背著 Aurvandil 渡過結冰的河，凍僵的一根腳趾被他折下來，也丟上了天。是哪幾顆？沒人知道；有人猜，那雙眼睛就是雙子座並排的這兩顆。 |
 | 23 | 鏡頭10結束 | 長圖 | 12960.0 | 20016.0 | -4644.0 | -8328.0 | 0.0 | Match & Move（22.0 秒） | L1-銀河、L2-星點、L3-經緯線、L8-連線-巨人之眼、L10-主角星白點、L14-標籤-巨人之眼 |  |
 | 24 | 長圖轉北盤1-回中心 | 長圖 | 12960.0 | 20016.0 | -5940.0 | -9048.0 | 0.0 | Match & Move（轉場，≤2.5 秒） | L1-銀河、L2-星點、L3-經緯線、L8-連線-巨人之眼、L10-主角星白點 |  |
 | 25 | 長圖轉北盤1-上移 | 長圖 | 12960.0 | 20016.0 | -5940.0 | -5115.6 | 0.0 | Match & Move（轉場，≤2.5 秒） | L1-銀河、L2-星點、L3-經緯線、L8-連線-巨人之眼、L10-主角星白點 |  |
@@ -47,7 +47,7 @@
 | 36 | 北盤轉長圖1-歸位 | 北盤 | 12164.3 | 12164.3 | -5542.2 | -5122.2 | 0.0 | Match & Move（轉場，≤2.5 秒）；盤轉回 0° | 北盤L1-銀河、北盤L2-星點、北盤L3-經緯線、北盤L9-連線-兩輛車、北盤L10-主角星白點 |  |
 | 37 | 北盤轉長圖1 | 長圖 | 12960.0 | 20016.0 | -5940.0 | -5115.6 | 0.0 | 無（同框硬切：畫面完全相同，只把北盤換回長圖） | L1-銀河、L2-星點、L3-經緯線、L9-連線-兩輛車、L10-主角星白點 |  |
 | 38 | 北盤轉長圖1-下移 | 長圖 | 12960.0 | 20016.0 | -5940.0 | -9048.0 | 0.0 | Match & Move（轉場，≤2.5 秒）；＝長圖轉北盤的倒放 | L1-銀河、L2-星點、L3-經緯線、L9-連線-兩輛車、L10-主角星白點 |  |
-| 39 | 鏡頭15開始 | 長圖 | 9720.0 | 15012.0 | -4433.4 | -6384.0 | 0.0 | Match & Move（轉場，≤2.5 秒） | L1-銀河、L2-星點、L3-經緯線、L5-連線-狼嘴、L7-連線-漁夫、L8-連線-巨人之眼、L10-主角星白點、L11-標籤-狼嘴、L13-標籤-漁夫、L14-標籤-巨人之眼 | 這週末在台灣：天黑後往東看，八點左右，畢宿五和狼嘴已經爬到半天高，腰帶在它右下方；東北方雙子座的兩顆亮星旁邊，就是聖誕節的月亮——今晚去找找那雙巨人的眼睛。 |
+| 39 | 鏡頭15開始 | 長圖 | 9720.0 | 15012.0 | -4433.4 | -6384.0 | 0.0 | Match & Move（轉場，≤2.5 秒） | L1-銀河、L2-星點、L3-經緯線、L5-連線-狼嘴、L7-連線-漁夫、L8-連線-巨人之眼、L10-主角星白點、L11-標籤-狼嘴、L13-標籤-漁夫、L14-標籤-巨人之眼 | 這週末在台灣：天黑後往東看，八點左右，畢宿五和狼嘴已經爬到半天高，腰帶在它右下方；東北東，雙子座的兩顆亮星旁邊，就是聖誕節的月亮——今晚去找找那雙巨人的眼睛。 |
 | 40 | 鏡頭15結束 | 長圖 | 10800.0 | 16680.0 | -3960.0 | -6960.0 | 0.0 | Match & Move（17.0 秒） | L1-銀河、L2-星點、L3-經緯線、L5-連線-狼嘴、L7-連線-漁夫、L8-連線-巨人之眼、L10-主角星白點、L11-標籤-狼嘴、L13-標籤-漁夫、L14-標籤-巨人之眼 |  |
 | 41 | 鏡頭15-概念圖 | 長圖 | 10800.0 | 16680.0 | -3960.0 | -6960.0 | 0.0 | Match & Move（畫面不動；概念圖淡入） | L1-銀河、L2-星點、L3-經緯線、L5-連線-狼嘴、L7-連線-漁夫、L8-連線-巨人之眼、L10-主角星白點 |  |
 | 42 | 鏡頭15-概念圖收＝鏡頭16開始 | 長圖 | 10800.0 | 16680.0 | -3960.0 | -6960.0 | 0.0 | Match & Move（畫面不動；概念圖淡出） | L1-銀河、L2-星點、L3-經緯線、L5-連線-狼嘴、L7-連線-漁夫、L8-連線-巨人之眼、L10-主角星白點、L14-標籤-巨人之眼 | 下週五元旦，我們從這三個漁夫出發，繞地球一圈：全世界都認得的獵戶腰帶。 |
